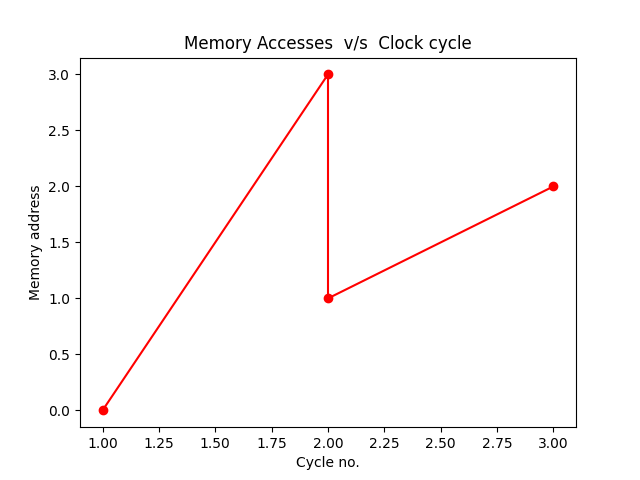
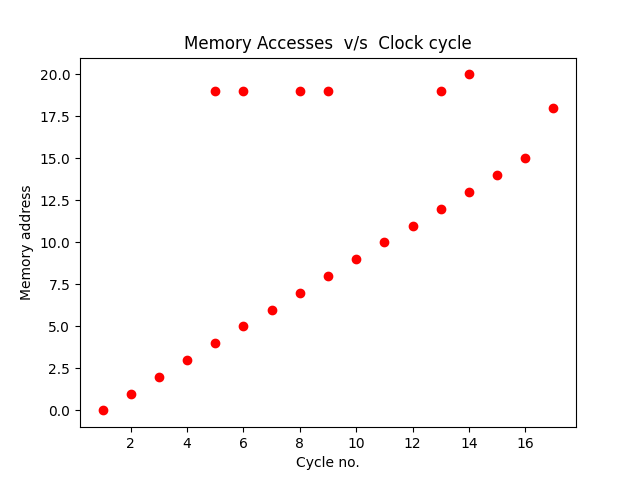
Simulator Done. Bonus Done. Assignment Done.

diff --git a/SimpleSimulator/Simulator_main.py b/SimpleSimulator/Simulator_main.py
@@ -51,7 +51,7 @@ def initialize(memory_dict):
 
 
 def showTraces(x_coordinate,y_coordinate):
-    plt.plot(x_coordinate, y_coordinate, marker='o', color='r')
+    plt.plot(x_coordinate, y_coordinate, marker='o', color='r', linestyle='None')
     plt.title("Memory Accesses  v/s  Clock cycle")
     plt.xlabel('Cycle no.')
     plt.ylabel('Memory address')
